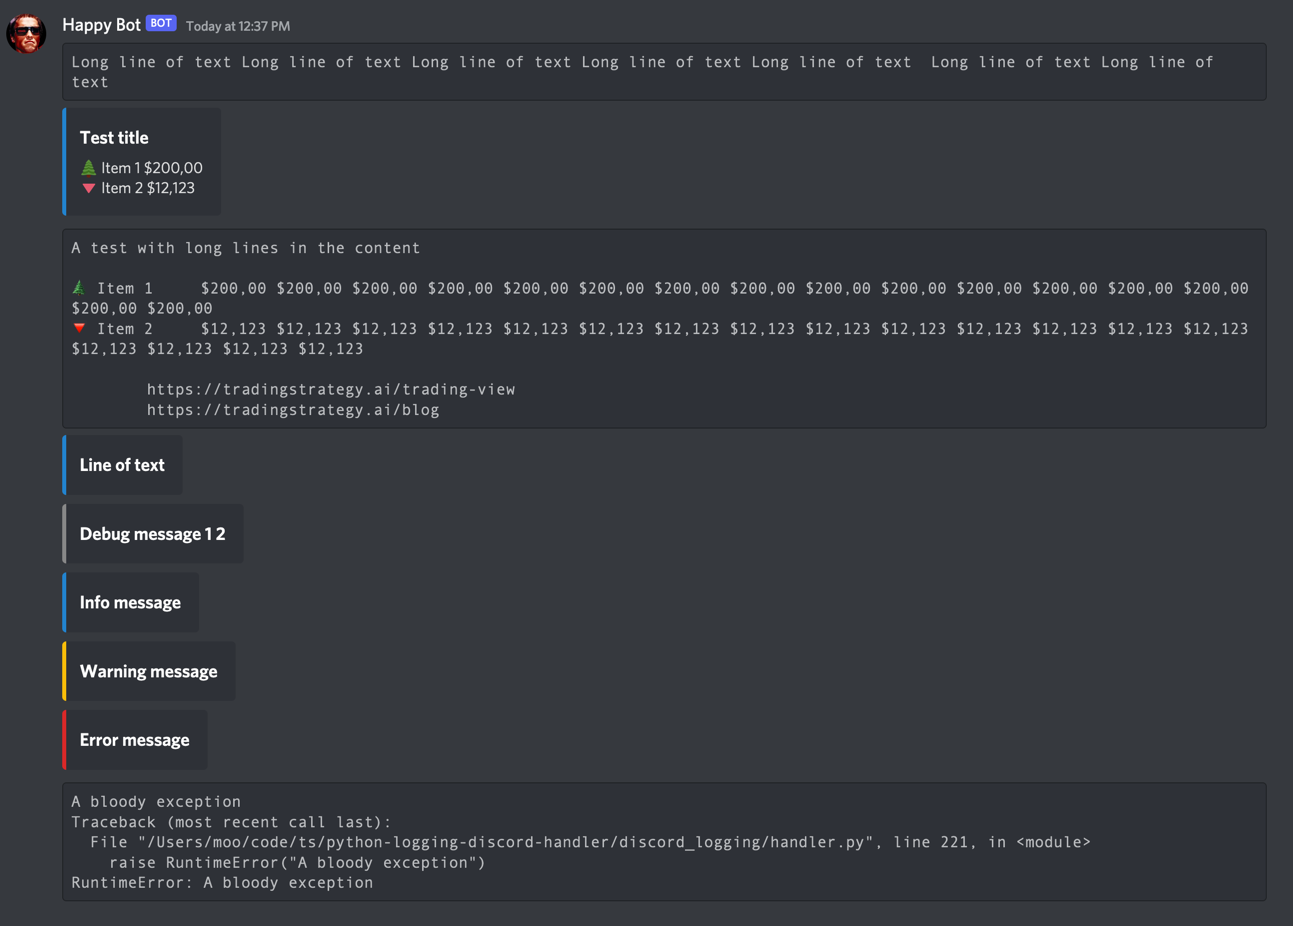
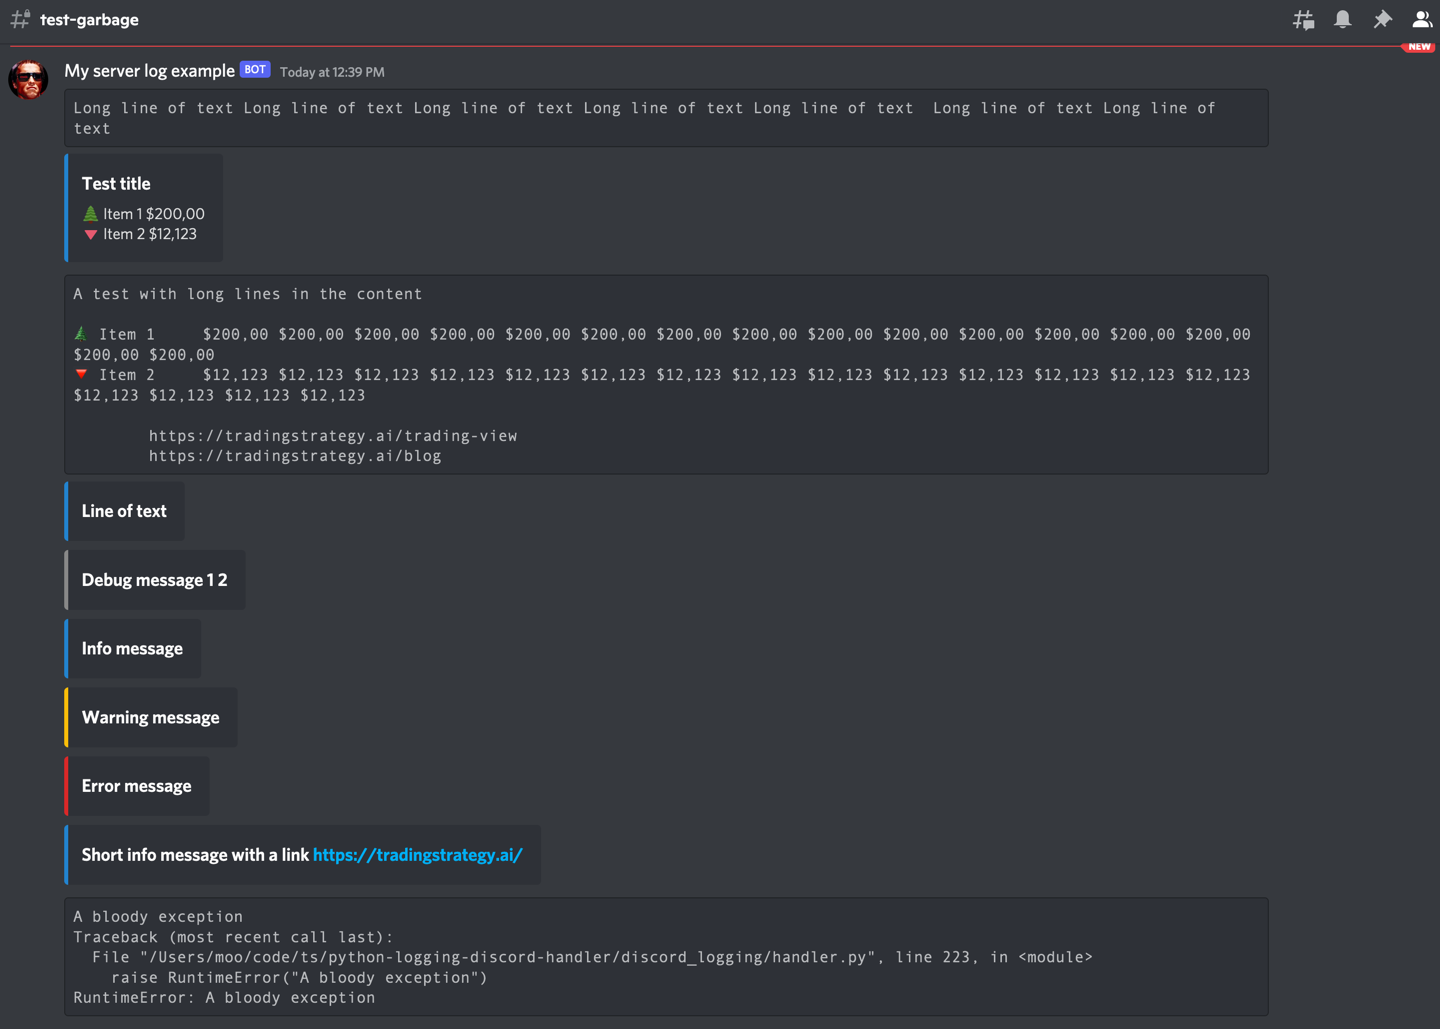
Added emoji example

diff --git a/discord_logging/handler.py b/discord_logging/handler.py
@@ -1,12 +1,4 @@
-"""Discord logging handler.
-
-Based on the orignal work by Copyright (c) 2019 Trayser Cassa (MIT licensed)
-
-See also other inspirations and sources
-- https://github.com/TrayserCassa/DiscordHandler/blob/master/discord_handler/DiscordHandler.py
-- https://pypi.org/project/discord-webhook/
-- https://github.com/chinnichaitanya/python-discord-logger/blob/master/discord_logger/message_logger.py
-"""
+"""Discord logging handler."""
 import logging
 import os
 import sys
@@ -14,7 +6,7 @@ import textwrap
 
 from discord_webhook import DiscordEmbed, DiscordWebhook
 
-
+# Colors as hexacimal, converted int
 DEFAULT_COLOURS = {
     None: 2040357,
     logging.CRITICAL: 14362664,  # Red
@@ -26,12 +18,12 @@ DEFAULT_COLOURS = {
 
 
 DEFAULT_EMOJIS = {
-    None: ":loudspeaker:",
-    logging.CRITICAL: ":x:",
-    logging.ERROR: ":x:",
-    logging.WARNING: ":warning:",
-    logging.INFO: ":bell:",
-    logging.DEBUG: ":microscope:",
+    None: "",
+    logging.CRITICAL: "🆘",
+    logging.ERROR: "❌",
+    logging.WARNING: "⚠",
+    logging.INFO: "",
+    logging.DEBUG: "",
 }
 
 
@@ -174,7 +166,7 @@ if __name__ == "__main__":
     stream_format = logging.Formatter("%(asctime)s - %(name)s - %(levelname)s - %(message)s")
     discord_format = logging.Formatter("%(message)s")
 
-    discord_handler = DiscordHandler("Happy Bot", webhook_url, emojis={}, avatar_url="https://i0.wp.com/www.theterminatorfans.com/wp-content/uploads/2012/09/the-terminator3.jpg?resize=900%2C450&ssl=1")
+    discord_handler = DiscordHandler("My server log example", webhook_url, emojis={}, avatar_url="https://i0.wp.com/www.theterminatorfans.com/wp-content/uploads/2012/09/the-terminator3.jpg?resize=900%2C450&ssl=1")
     #discord_handler = DiscordHandler("Happy Bot", webhook_url, emojis={})
     discord_handler.setFormatter(discord_format)
     stream_handler = logging.StreamHandler()
@@ -210,16 +202,22 @@ if __name__ == "__main__":
 
     logger.info("Line of text")
 
-
-
     logger.debug("Debug message %d %d", 1, 2)
     logger.info("Info message")
     logger.warning("Warning message")
     logger.error("Error message")
+
+    logger.info("Short info message with a link https://tradingstrategy.ai")
 
     try:
         raise RuntimeError("A bloody exception")
     except Exception as e:
         logger.exception(e)
 
-
+    # Switch to a handler with emojis
+    discord_handler_with_emojis = DiscordHandler("My server log example", webhook_url)
+    logger.removeHandler(discord_handler)
+    logger.addHandler(discord_handler_with_emojis)
+    logger.error("Error output with emojis")
+    logger.warning("Warning output with emojis")
+    logger.info("Info output with emojis")

diff --git a/README.md b/README.md
@@ -8,6 +8,8 @@
 
 Redirect your Python log output to Discord using [Python logging subsystem](https://docs.python.org/3/howto/logging.html) and [Discord Webhook library](https://github.com/lovvskillz/python-discord-webhook).
 
+![Example screenshot](https://raw.githubusercontent.com/tradingstrategy-ai/python-logging-discord-handler/master/docs/source/_static/example_screenshot.png)
+
 # Use cases
 
 - Get notified on server-side errors
@@ -17,7 +19,7 @@ Redirect your Python log output to Discord using [Python logging subsystem](http
 # Features
 
 - Minimum or no changes to a Python application needed
-- Optional color coding of messages using embeds
+- Optional color coding of messages using [Discord embeds](https://discordjs.guide/popular-topics/embeds.html#embed-preview)
 - Optional emoticons on messages using Unicode
 - Discord rate limiting friendly for burst of logs
 - Documentation
@@ -32,8 +34,10 @@ First you need to
 ```python
 import logging
 
+from discord_logging.handler import DiscordHandler
+
 # See instructions below how to get a Webhook URL
-webhook_url = os.environ["DISCORD_TEST_WEBHOOK_URL"]
+webhook_url = # ...
 logger = logging.getLogger()
 
 stream_format = logging.Formatter("%(asctime)s - %(name)s - %(levelname)s - %(message)s")
@@ -42,7 +46,6 @@ discord_format = logging.Formatter("%(message)s")
 discord_handler = DiscordHandler(
     "Hello World Bot", 
     webhook_url, 
-    emojis={}, 
     avatar_url="https://i0.wp.com/www.theterminatorfans.com/wp-content/uploads/2012/09/the-terminator3.jpg?resize=900%2C450&ssl=1")
 
 #discord_handler = DiscordHandler("Happy Bot", webhook_url, emojis={})
@@ -66,6 +69,52 @@ logger.error("Very nasty error messgae!")
 2. Choose Integration
 3. Create new webhook
 4. Copy URL
+
+# Discord limitations
+
+- Max 2000 characters per message. See API documentation how to work around this limitation with different options. By default the bottom most lines of the log message, like a traceback, are shown.
+- Discord embeds, those that give you a logging level color bar on the left, have very hard time to deal with long lines. Embeds are disabled for long lines by default.
+
+## Log output formatting logic
+
+The log message are converted to Discord embeds with the following logic
+
+- Single line log messsages are converted to embed titles
+- For multi line log messages, the first line is the embed title and the following lines are the embed description
+- Long lines or long messages cannot be convert to embeds, instead they use [Discord Markdown code formattiong](https://support.discord.com/hc/en-us/articles/210298617-Markdown-Text-101-Chat-Formatting-Bold-Italic-Underline-) to preserve the readability of the output
+
+# Colours and emoticons
+
+Logging messages can be decorated with colours and emoticons.
+
+![Emoji screenshot](https://raw.githubusercontent.com/tradingstrategy-ai/python-logging-discord-handler/master/docs/source/_static/emoji_example.png)
+
+
+Here are the defaults:
+
+```python
+# Colors as hexacimal, converted int
+DEFAULT_COLOURS = {
+    None: 2040357,
+    logging.CRITICAL: 14362664,  # Red
+    logging.ERROR: 14362664,  # Red
+    logging.WARNING: 16497928,  # Yellow
+    logging.INFO: 2196944,  # Blue
+    logging.DEBUG: 8947848,  # Gray
+}
+
+
+DEFAULT_EMOJIS = {
+    None: "",
+    logging.CRITICAL: "🆘",
+    logging.ERROR: "❌",
+    logging.WARNING: "⚠",
+    logging.INFO: "",
+    logging.DEBUG: "",
+}
+```
+
+Emoticons are disabled by default as they often make the output a bit too colourful and harder to read.
 
 # Testing and development
 

diff --git a/docs/source/index.rst b/docs/source/index.rst
@@ -23,6 +23,18 @@ API documentation
 
    discord_logging.handler
 
+Related work
+============
+
+See also other inspirations and sources
+
+- https://github.com/TrayserCassa/DiscordHandler/blob/master/discord_handler/DiscordHandler.py
+
+- https://pypi.org/project/discord-webhook/
+
+- https://github.com/chinnichaitanya/python-discord-logger/blob/master/discord_logger/message_logger.py
+
+
 Indices and tables
 ==================
 
